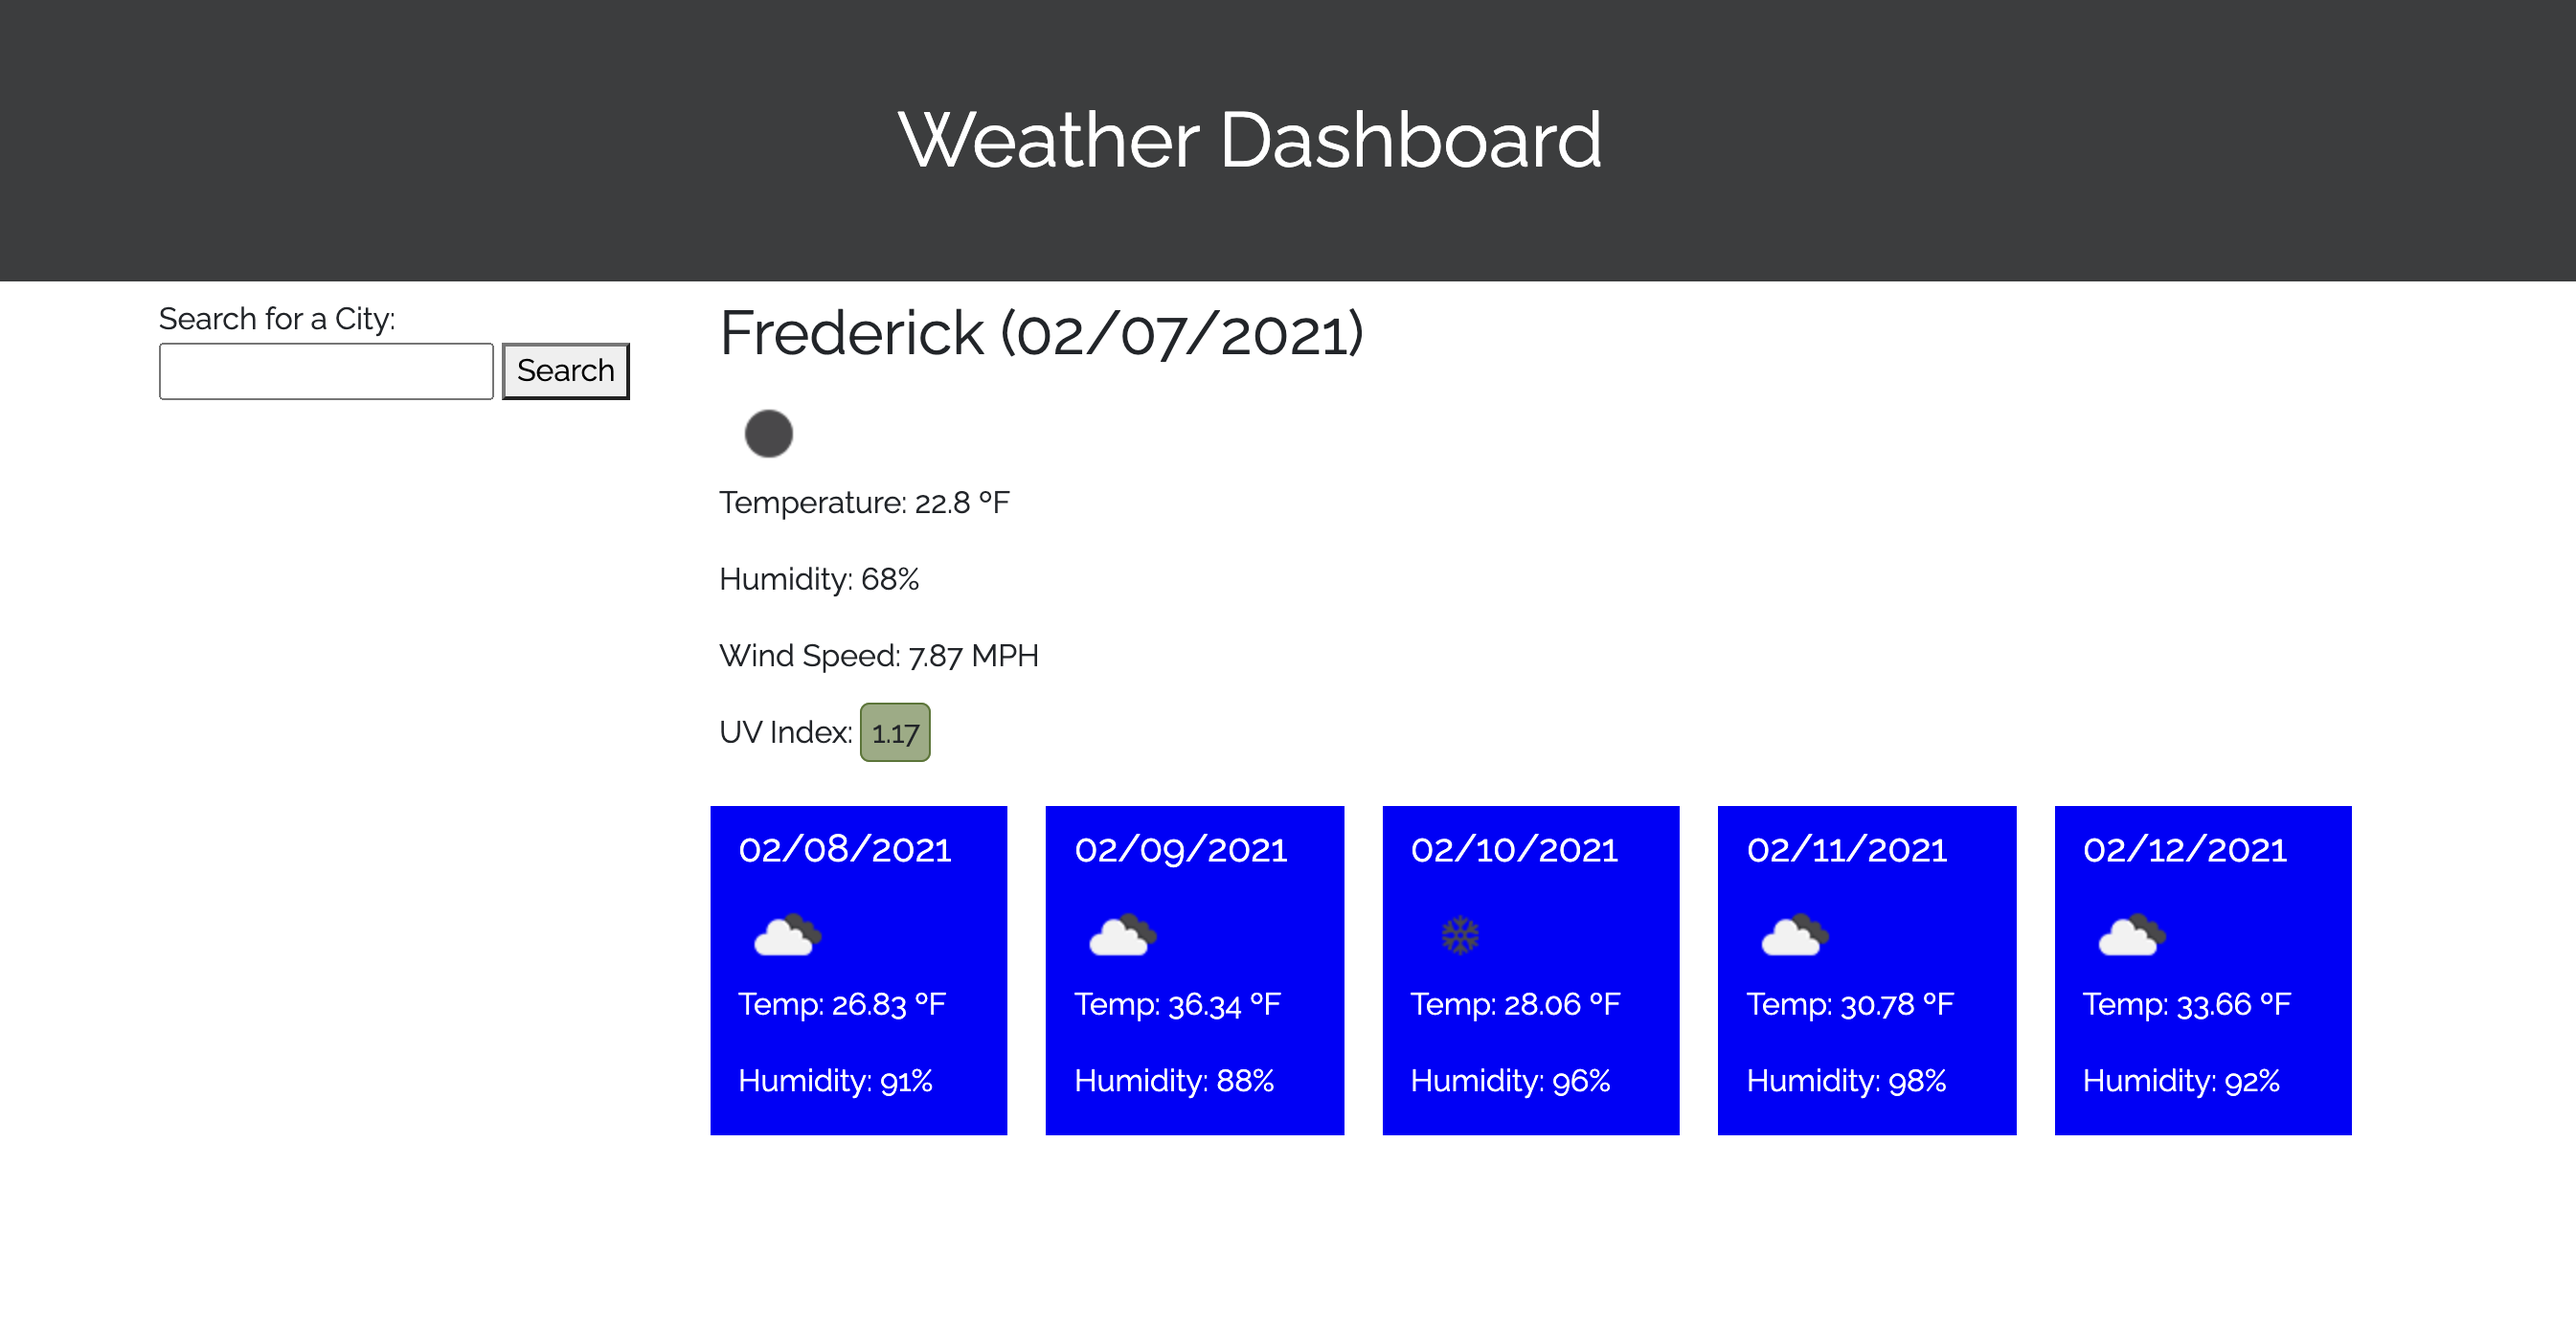
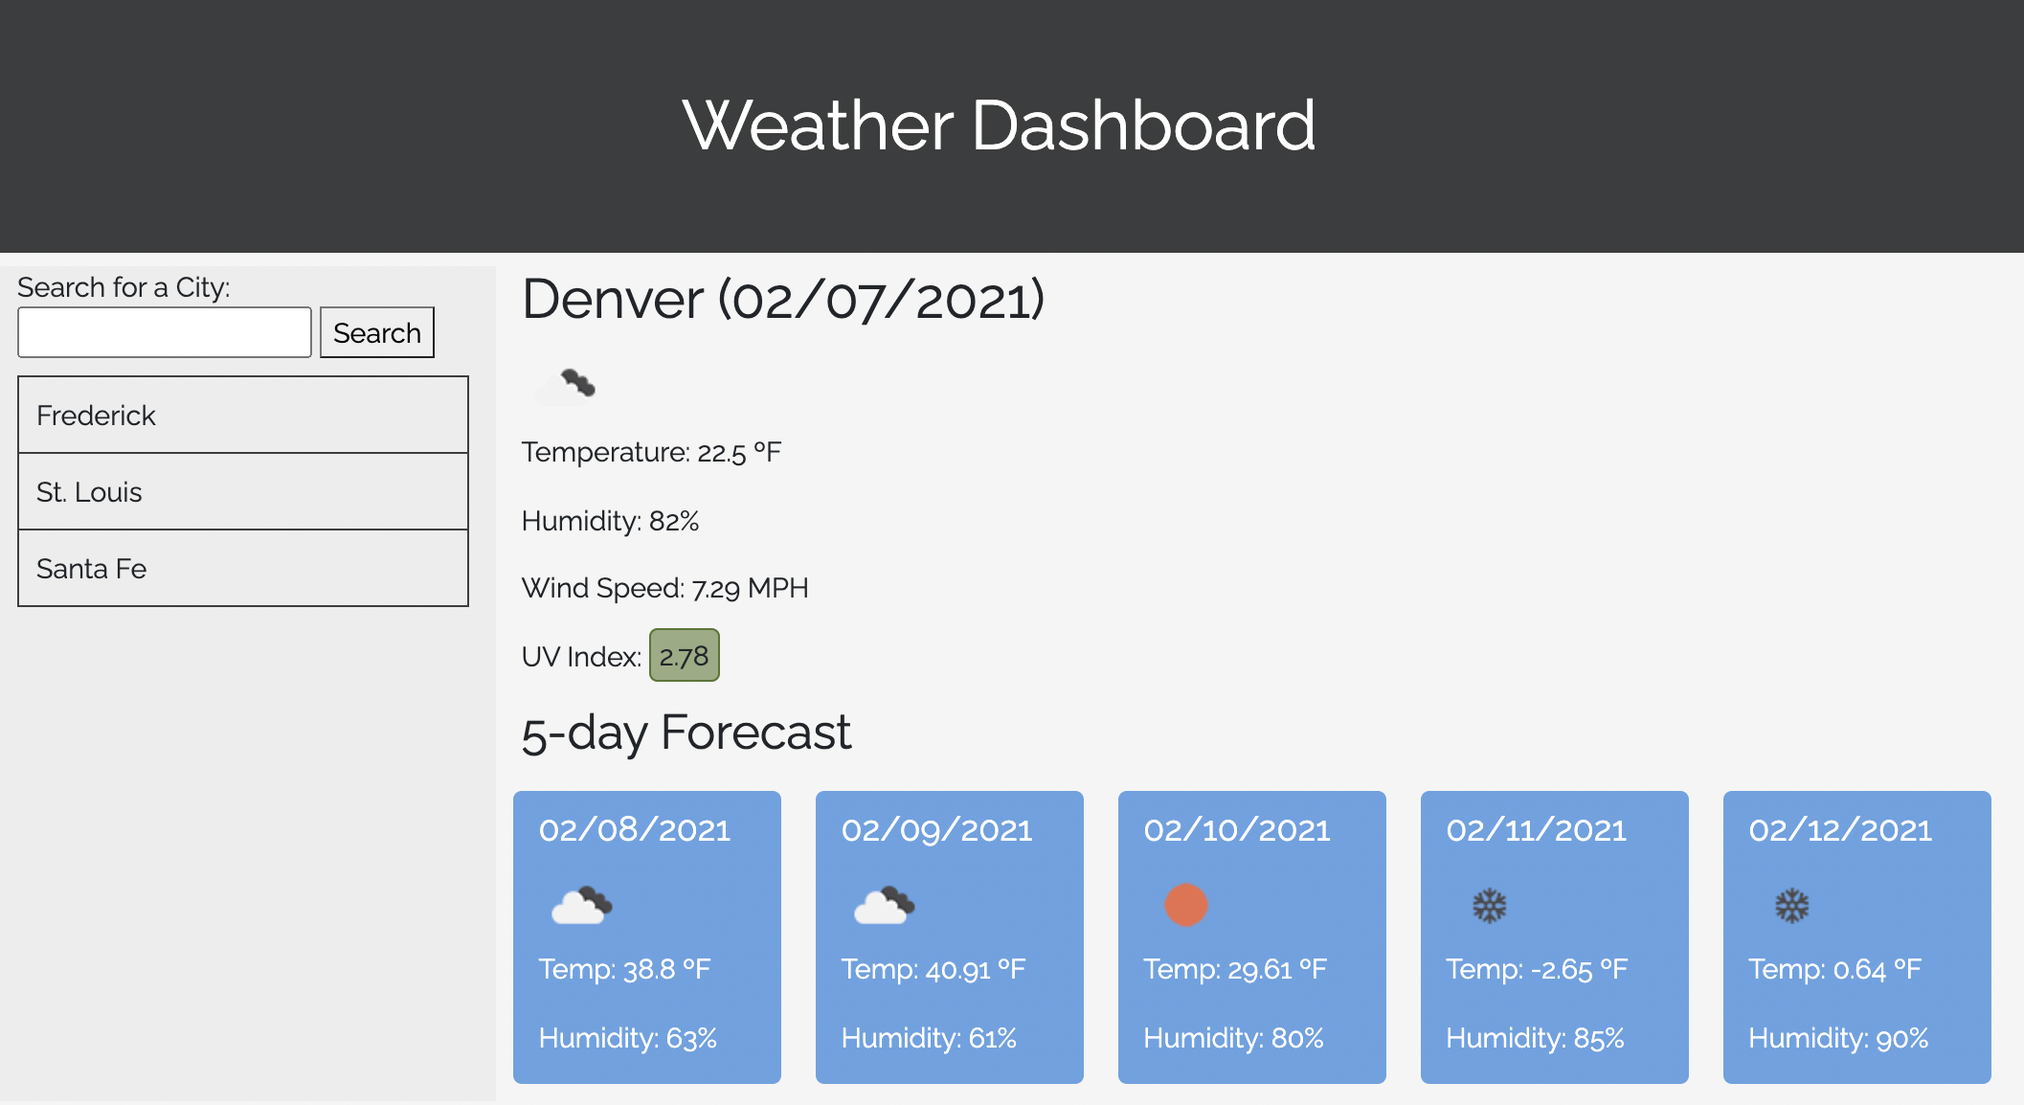
search works

diff --git a/Assets/js/script.js b/Assets/js/script.js
@@ -6,19 +6,23 @@ var currentHumidity = '';
 var uvData = '';
 var currentWindSpeed = '';
 // search variables
-var searchEnter = document.getElementById("searchEnter");
+var searchButton = document.getElementById("search-button");
+console.log(searchButton);
 var searchList = document.querySelector('ul');
+var searchHistory = JSON.parse(window.localStorage.getItem('Search History')) || [];
+
 // city variables
-var cityName = 'denver';
-var cityURL = 'https://api.openweathermap.org/data/2.5/forecast?q=' + cityName + '&units=imperial&appid=49007e1734cfd0ecf0b4c3ad67f3f238';
-
-
+var cityName = 'Denver';
+// var cityName = document.getElementById('city-name');
 
 // page opens to last searched city
+
+// calls api for cityName 
 getWeather(cityName);
 
 // fetch from openweather API
 function getWeather(cityName) {
+  var cityURL = 'https://api.openweathermap.org/data/2.5/forecast?q=' + cityName + '&units=imperial&appid=49007e1734cfd0ecf0b4c3ad67f3f238';
   fetch(cityURL)
     .then(response => response.json())
     .then(data => {
@@ -35,8 +39,9 @@ function getWeather(cityName) {
           }
         })
     })
+    .finally(() => { renderCityList() });
 }
-// getCity()
+// display current weather
 function displayCurrent(weatherData, uvData) {
   //City Name
   var cityName = weatherData.city.name;
@@ -138,4 +143,55 @@ function displayForecast(weatherData) {
 
 }
 
+// send city name to local storage
+function startSearch() {
+  cityName = document.getElementById('search-input').value;
+  console.log(cityName);
+  searchHistory.push(cityName);
+  localStorage.setItem('Search History', JSON.stringify(searchHistory));
+  getWeather(cityName);
+  console.log('search started');
+}
+
+function renderCityList() {
+  // clear searchList before rendering new city
+  searchList.textContent = "";
+  // add new city names to the top of the city list
+  for (var i = 0; i < searchHistory.length; i++) {
+    var newCity = document.createElement('li');
+    newCity.textContent = searchHistory[i].toUpperCase();
+    searchList.prepend(newCity);
+  }
+}
+
+function getLocalStorage() {
+  // populate a local array
+  if (searchHistory.length > 0) {
+    renderCityList();
+  };
+}
+
+
+searchButton.addEventListener('click', startSearch)
+//Get new city on enter keystroke
+// var input = document.getElementById('search-input');
+// input.addEventListener("keyup", function (event) {
+//   // Number 13 is the "Enter" key on the keyboard
+//   if (event.keyCode === 13) {
+//     event.preventDefault();
+//     startSearch();
+//   }
+// });
+
+
+// show weather for city clicked in city list
+function clickCity(evt) {
+  // e.target refers to the clicked <li> element
+  // This is different than e.currentTarget, which would refer to the parent <ul> in this context
+  cityName = e.target.textContent;
+  getWeather(cityName);
+}
+
+var listItem = document.getElementById('list-item');
+listItem.addEventListener('click', clickCity, false);
 

diff --git a/index.html b/index.html
@@ -9,7 +9,6 @@
     <link href="https://fonts.googleapis.com/css2?family=Raleway&display=swap" rel="stylesheet">
     <link rel="stylesheet" href="https://maxcdn.bootstrapcdn.com/bootstrap/4.0.0/css/bootstrap.min.css">
     <link rel="stylesheet" href="./Assets/css/style.css">
-    <script src="./Assets/js/script.js"></script>
 
     <title>Weather Dashboard</title>
 </head>
@@ -26,11 +25,8 @@
                 <!-- search column -->
                 Search for a City:<br>
                 <input id="search-input" type="text"></input>
-                <button id="searchEnter">Search</button>
-                <ul class="city-list">
-                    <li id="list-item ">Frederick</li>
-                    <li id="list-item ">St. Louis</li>
-                    <li id="list-item ">Santa Fe</li>
+                <button id="search-button">Search</button>
+                <ul class=" city-list">
                 </ul>
             </div>
             <div class="col-lg-9 col-md-12 col-sm-12">
@@ -41,8 +37,6 @@
                         <span>
                             <h2 id="city-name"></h2><img id="current-icon">
                         </span>
-                        <!-- <h2><span id="city-name"></span> <span></h2>weather icon</span> -->
-                        <!-- create div class = weather-stat in js-->
                         <p>Temperature: <span id="temperature"></span></p>
                         <p>Humidity: <span id="humidity"></span></p>
                         <p>Wind Speed: <span id="wind-speed"></span></p>
@@ -92,6 +86,7 @@
         </div>
     </div>
     <script src="https://cdnjs.cloudflare.com/ajax/libs/moment.js/2.24.0/moment.min.js"></script>
+    <script src="./Assets/js/script.js"></script>
 
 
 </body>

diff --git a/Assets/css/style.css b/Assets/css/style.css
@@ -43,6 +43,10 @@ ul li:last-child {
     color: white;
     margin: 10px
 }
+#forecast {
+    width: 992px;
+    overflow: auto;
+}
 h5 {
     padding-top: 10px;
 }
@@ -65,8 +69,4 @@ h5 {
     color: lightgray;
     border: #b30412 1px solid;
     border-radius: 5px;
-}
-
-.city-list {
-
 }
